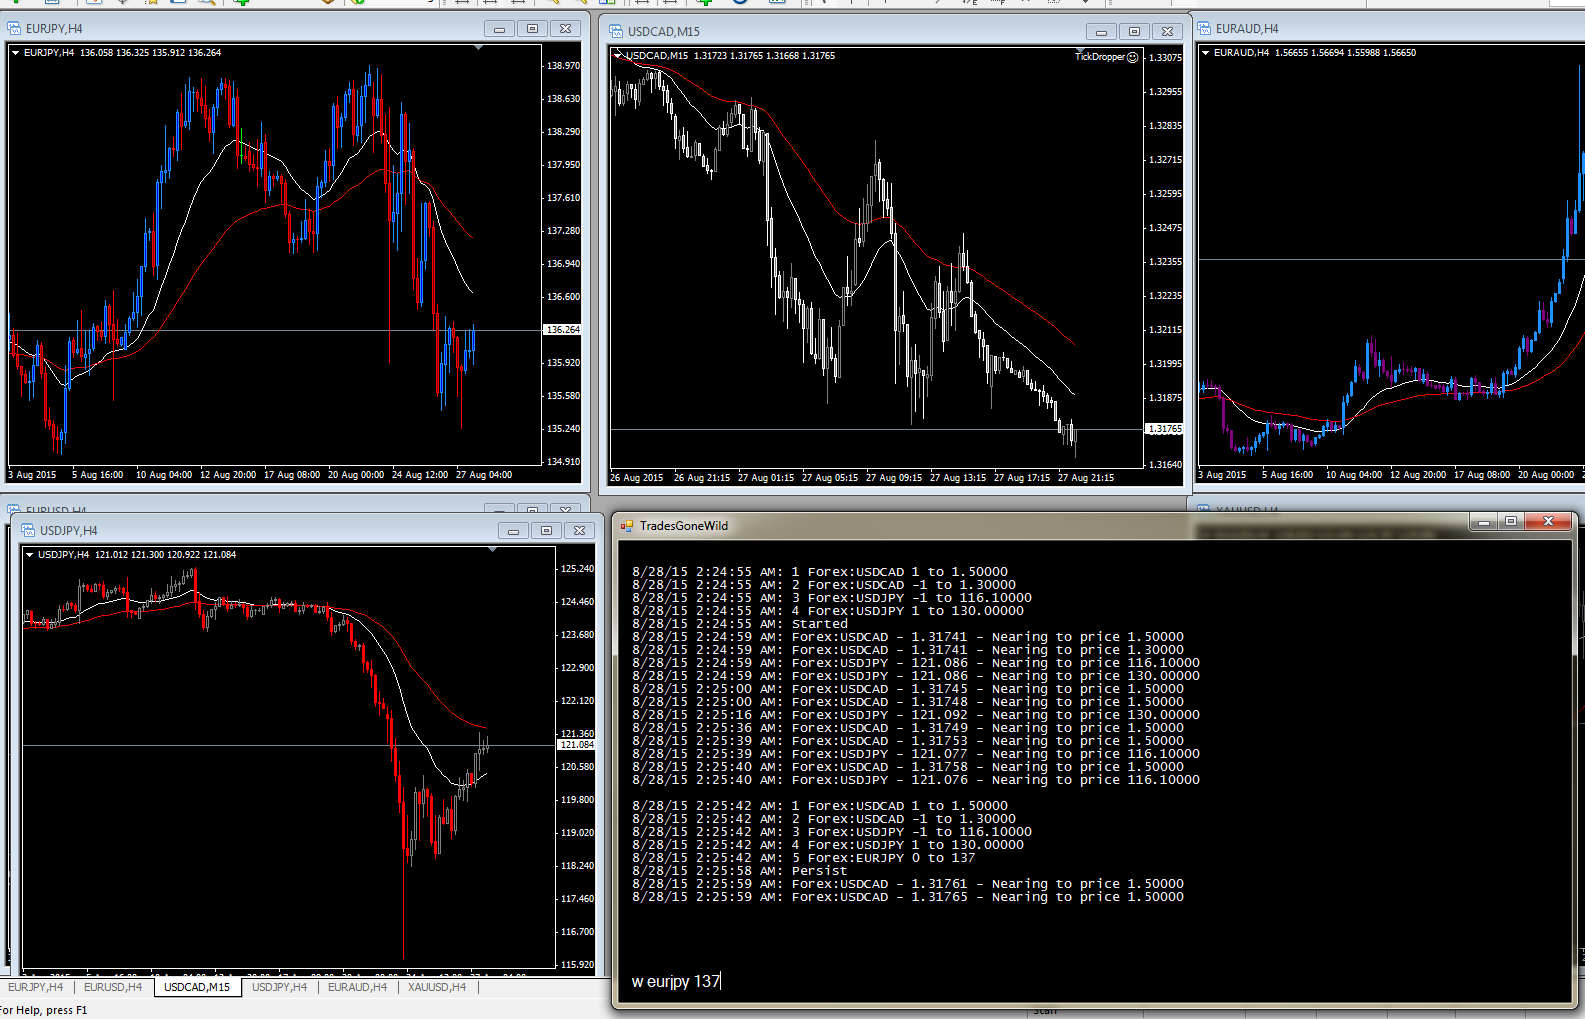
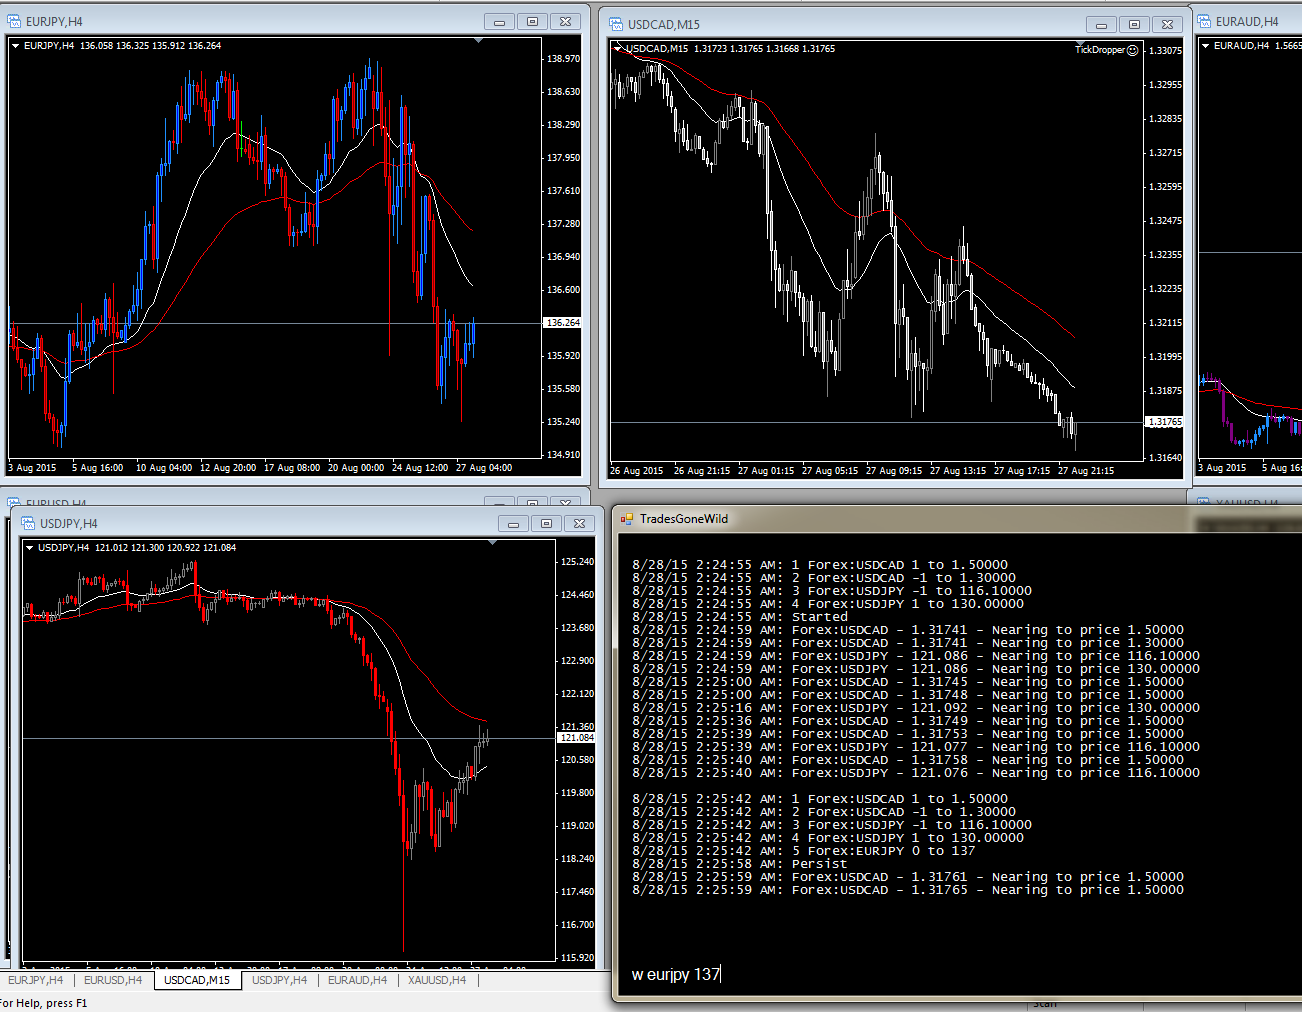
Screenshot of console

Changed region(s): [[0.0, 0.0, 1.0, 1.0]]

diff --git a/README.md b/README.md
@@ -1,7 +1,12 @@
 # trades-gone-wild
 This is a side project using C# to manage pending trade plans.  Tick data is borrowed from the local MT4 installation running the [TickDropper expert advisor](https://github.com/nirgle/trades-gone-wild/blob/master/TradesGoneWild.Domain/TickPunker/TickDropper.mq4).
 
-Current ideas:
+### Ideas
 
 * Various visualizations of trade plans
 * [OANDA API](http://developer.oanda.com/rest-live/development-guide/) for trade execution
+
+### Screenshots
+
+Console
+![Console over MT4](https://github.com/nirgle/trades-gone-wild/blob/master/Journal/Screenshots/console-mt4.png)
